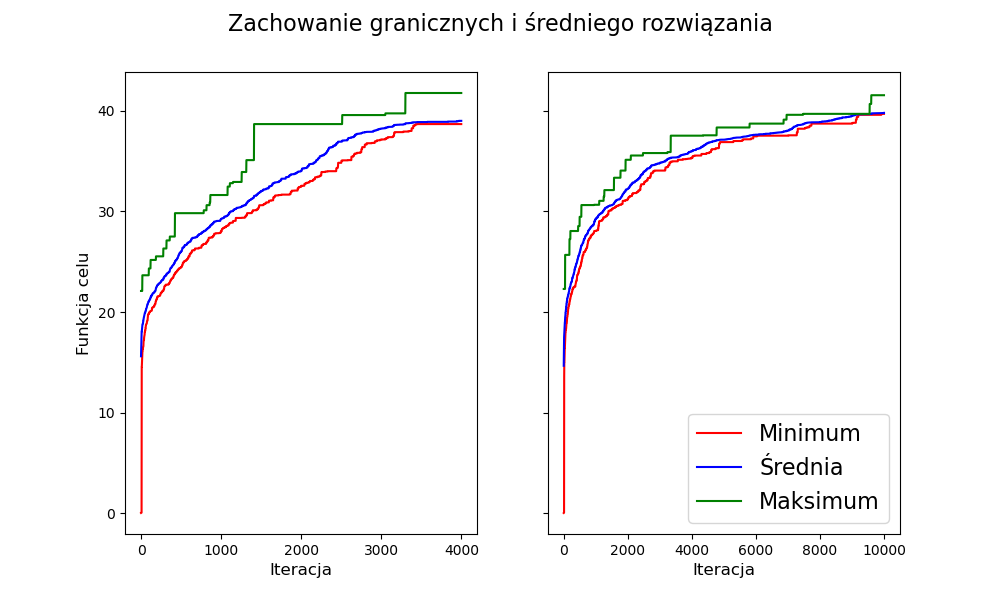
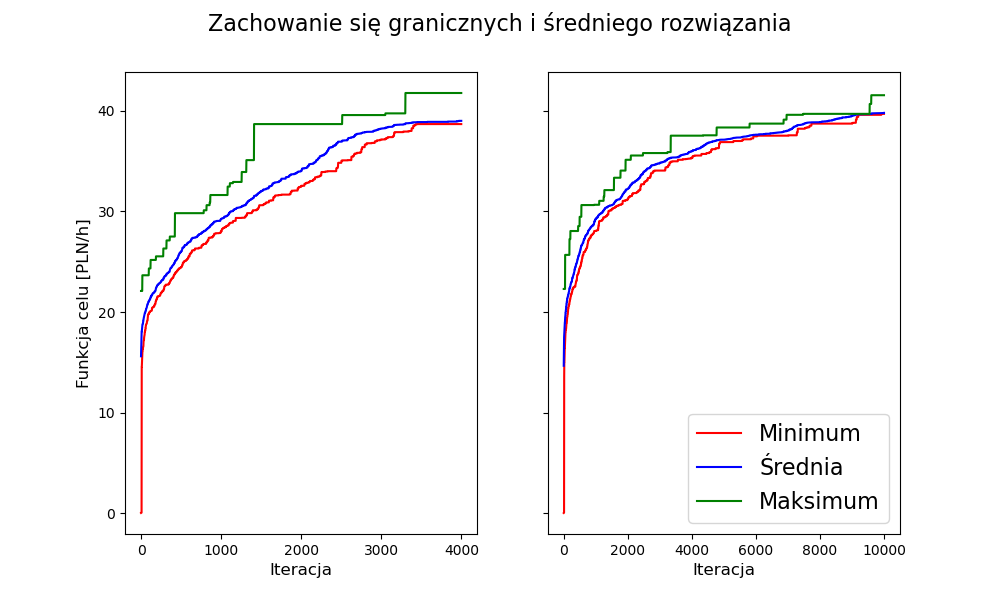
new histogram ready

Changed region(s): [[0.217, 0.03, 0.806, 0.06], [0.062, 0.36, 0.093, 0.66]]

diff --git a/data_analysis.py b/data_analysis.py
@@ -4,8 +4,12 @@
 import matplotlib.pyplot as plt
 import pandas as pd
 
+# Width of histogram bars (number from  0 to 1)
+szerokosc_paskow = 1
 
-def better_first_chart():
+
+# Histogram, three objective functions in terms of number of iterations
+def first_test():
     df500 = pd.read_excel("Dat/RawData_iter_500.xlsx", index_col=0)
     df1000 = pd.read_excel("Dat/RawData_iter_1000.xlsx", index_col=0)
     df2000 = pd.read_excel("Dat/RawData_iter_2000.xlsx", index_col=0)
@@ -13,10 +17,11 @@ def better_first_chart():
     df6000 = pd.read_excel("Dat/RawData_iter_6000.xlsx", index_col=0)
     df8000 = pd.read_excel("Dat/RawData_iter_8000.xlsx", index_col=0)
     df10000 = pd.read_excel("Dat/RawData_iter_10000.xlsx", index_col=0)
+
     fig1, axs = plt.subplots(7, 3, figsize=(8.25, 11.75), sharey="row", sharex="col")
     fig1.suptitle("Porównanie składowych i ostatecznej funkcji celu (1000 powtórzeń)", fontsize=16)
     fig1.subplots_adjust(top=0.95, left=0.1)
-    szerokosc_paskow = 1
+
     axs[0, 0].hist(df500['Maximum income'], bins=20, rwidth=szerokosc_paskow)
     axs[0, 0].set_ylabel("500")
     axs[1, 0].hist(df1000['Maximum income'], bins=20, rwidth=szerokosc_paskow)
@@ -31,7 +36,7 @@ def better_first_chart():
     axs[5, 0].set_ylabel("8000")
     axs[6, 0].hist(df10000['Maximum income'], bins=20, rwidth=szerokosc_paskow)
     axs[6, 0].set_ylabel("10000")
-    axs[6, 0].set_xlabel("Zysk", fontsize=12)
+    axs[6, 0].set_xlabel("Zysk [PLN]", fontsize=12)
 
     axs[0, 1].hist(df500['Suboptimal teaching time'], bins=20, rwidth=szerokosc_paskow)
     axs[1, 1].hist(df1000['Suboptimal teaching time'], bins=20, rwidth=szerokosc_paskow)
@@ -40,7 +45,7 @@ def better_first_chart():
     axs[4, 1].hist(df6000['Suboptimal teaching time'], bins=20, rwidth=szerokosc_paskow)
     axs[5, 1].hist(df8000['Suboptimal teaching time'], bins=20, rwidth=szerokosc_paskow)
     axs[6, 1].hist(df10000['Suboptimal teaching time'], bins=20, rwidth=szerokosc_paskow)
-    axs[6, 1].set_xlabel("Czas", fontsize=12)
+    axs[6, 1].set_xlabel("Czas [h]", fontsize=12)
 
     axs[0, 2].hist(df500['Final maximum'], bins=20, rwidth=szerokosc_paskow)
     axs[1, 2].hist(df1000['Final maximum'], bins=20, rwidth=szerokosc_paskow)
@@ -49,23 +54,24 @@ def better_first_chart():
     axs[4, 2].hist(df6000['Final maximum'], bins=20, rwidth=szerokosc_paskow)
     axs[5, 2].hist(df8000['Final maximum'], bins=20, rwidth=szerokosc_paskow)
     axs[6, 2].hist(df10000['Final maximum'], bins=20, rwidth=szerokosc_paskow)
-    axs[6, 2].set_xlabel("Funkcja celu", fontsize=12)
+    axs[6, 2].set_xlabel("Funkcja celu [PLN/h]", fontsize=12)
 
     plt.savefig("Plots & Charts/objective functions comparison.png")
     plt.show()
     return fig1
 
 
+# Minimal, average, maximum solution (out of total population size 50) throughout iterations
 def second_test():
     data4000 = pd.read_excel("Dat/RawData_oneiter_4000.xlsx", index_col=0)
     data10000 = pd.read_excel("Dat/RawData_oneiter_10000.xlsx", index_col=0)
     fig, axs = plt.subplots(1, 2, figsize=(10, 6), sharey='row')
-    fig.suptitle("Zachowanie granicznych i średniego rozwiązania", fontsize=16)
+    fig.suptitle("Zachowanie się granicznych i średniego rozwiązania", fontsize=16)
 
     axs[0].plot(data4000["Minimum Fun"], color="red", label="Minimum")
     axs[0].plot(data4000["Average Fun"], color="blue", label="Średnia")
     axs[0].plot(data4000["Maximum Fun"], color='green', label="Maksimum")
-    axs[0].set_ylabel("Funkcja celu", fontsize=12)
+    axs[0].set_ylabel("Funkcja celu [PLN/h]", fontsize=12)
     axs[0].set_xlabel("Iteracja", fontsize=12)
     axs[1].plot(data10000["Minimum Fun"], color="red", label="Minimum")
     axs[1].plot(data10000["Average Fun"], color="blue", label="Średnia")
@@ -75,3 +81,46 @@ def second_test():
     plt.savefig("Plots & Charts/max average min.png")
     plt.show()
     return fig
+
+
+# Histogram, three objective functions in terms of population size (25, 50, 75, 100)
+def third_test():
+    df25 = pd.read_excel("Dat/RawData_popsize25.xlsx", index_col=0)
+    df50 = pd.read_excel("Dat/RawData_popsize50.xlsx", index_col=0)
+    df75 = pd.read_excel("Dat/RawData_popsize75.xlsx", index_col=0)
+    df100 = pd.read_excel("Dat/RawData_popsize100.xlsx", index_col=0)
+
+    fig1, axs = plt.subplots(4, 3, figsize=(8.25, 6.75), sharey="row", sharex="col")
+    fig1.suptitle("Porównanie składowych i ostatecznej funkcji celu (1000 powtórzeń)", fontsize=16)
+    fig1.subplots_adjust(top=0.95, left=0.1)
+
+    axs[0, 0].hist(df25['Maximum income'], bins=20, rwidth=szerokosc_paskow)
+    axs[0, 0].set_ylabel("25")
+    axs[1, 0].hist(df50['Maximum income'], bins=20, rwidth=szerokosc_paskow)
+    axs[1, 0].set_ylabel("50")
+    axs[2, 0].hist(df75['Maximum income'], bins=20, rwidth=szerokosc_paskow)
+    axs[2, 0].set_ylabel("75")
+    axs[3, 0].hist(df100['Maximum income'], bins=20, rwidth=szerokosc_paskow)
+    axs[3, 0].set_ylabel("100")
+    axs[3, 0].set_xlabel("Zysk [PLN]", fontsize=12)
+
+    axs[0, 1].hist(df25['Suboptimal teaching time'], bins=20, rwidth=szerokosc_paskow)
+    axs[1, 1].hist(df50['Suboptimal teaching time'], bins=20, rwidth=szerokosc_paskow)
+    axs[2, 1].hist(df75['Suboptimal teaching time'], bins=20, rwidth=szerokosc_paskow)
+    axs[3, 1].hist(df100['Suboptimal teaching time'], bins=20, rwidth=szerokosc_paskow)
+    axs[6, 1].set_xlabel("Czas [h]", fontsize=12)
+
+    axs[0, 2].hist(df25['Final maximum'], bins=20, rwidth=szerokosc_paskow)
+    axs[1, 2].hist(df50['Final maximum'], bins=20, rwidth=szerokosc_paskow)
+    axs[2, 2].hist(df75['Final maximum'], bins=20, rwidth=szerokosc_paskow)
+    axs[3, 2].hist(df100['Final maximum'], bins=20, rwidth=szerokosc_paskow)
+    axs[6, 2].set_xlabel("Funkcja celu [PLN/h]", fontsize=12)
+
+    plt.savefig("Plots & Charts/pop_size and objective functions.png")
+    plt.show()
+
+    return fig1
+
+
+# DO NOT RUN until data arrives
+# a = third_test()
